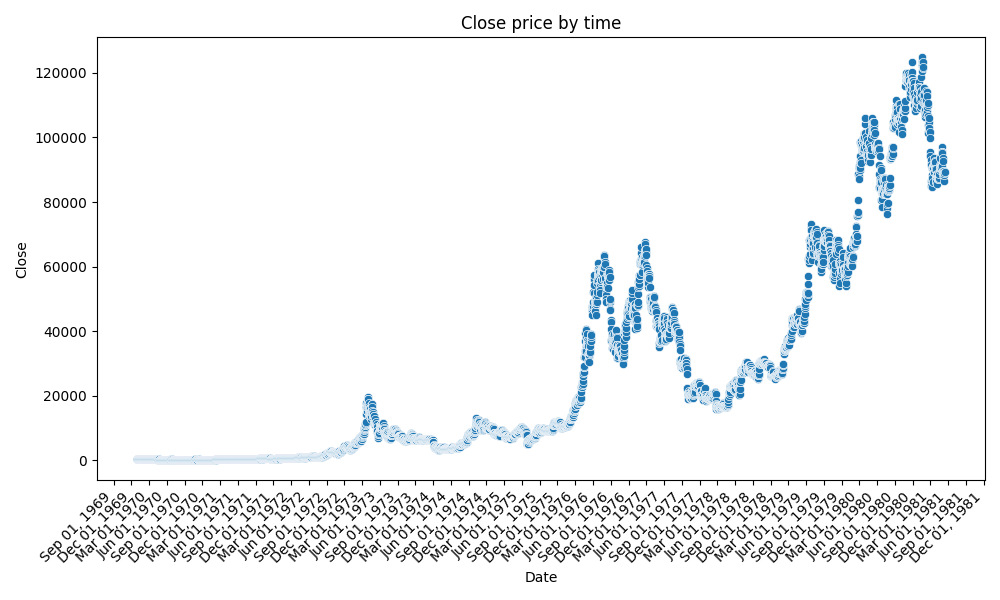
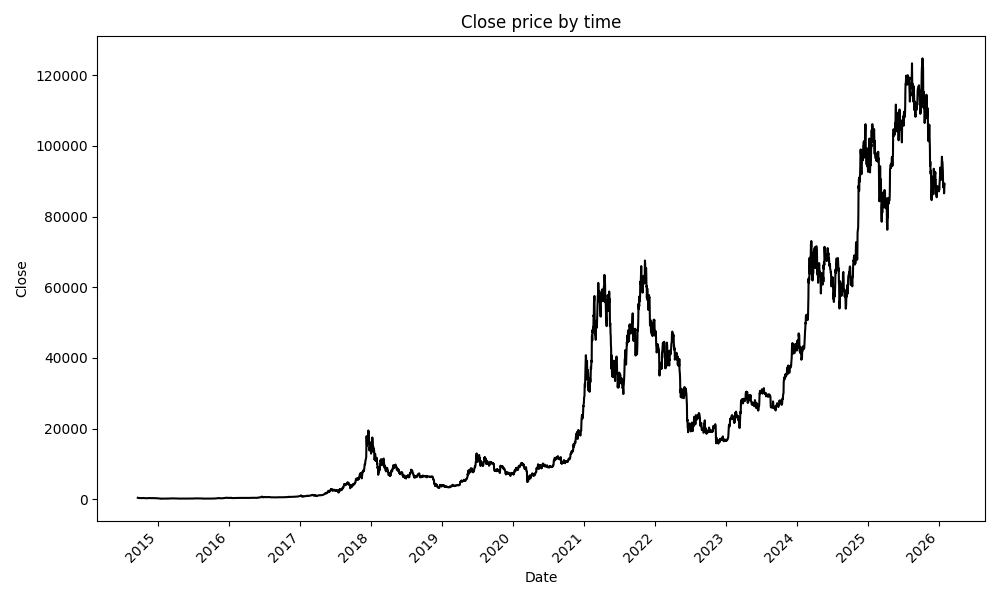
log and diff transforms

diff --git a/src/data_loader.py b/src/data_loader.py
@@ -1,12 +1,13 @@
 import pandas as pd
 from sklearn.pipeline import Pipeline
 from sklearn.preprocessing import StandardScaler
-from src.tools import DateFormatter, TimeSeriesImputer
-from sklearn.model_selection import train_test_split
+from src.tools import DateFormatter, TimeSeriesImputer, LogTransformer, DiffTransformer
 from typing import Tuple, cast
+import numpy as np
+from sklearn.model_selection import train_test_split
 
 
-def prepare_data(path: str, use_scaler: bool = True) -> Tuple[pd.DataFrame, pd.DataFrame]:
+def prepare_data(df: pd.DataFrame) -> Tuple[pd.DataFrame, pd.DataFrame]:
     """
     Preprocess stock data for time series regression.
     Format date columns, impute missing daily values, and optionally apply standard scaling.
@@ -14,15 +15,11 @@ def prepare_data(path: str, use_scaler: bool = True) -> Tuple[pd.DataFrame, pd.D
     
     Args:
         path: Path to the input CSV file
-        use_scaler: Wheather to apply StandardScaler in the pipeline.
 
     Returns:
         A tuple containing the cleaned training and test DataFrames.
     """
 
-    df = pd.read_csv(path)
-
-    # Split data without shuffling for chronological order of time series
     train, test = train_test_split(
         df, test_size=0.3, random_state=42, shuffle=False)
 
@@ -30,12 +27,34 @@ def prepare_data(path: str, use_scaler: bool = True) -> Tuple[pd.DataFrame, pd.D
     pipeline = Pipeline([
         ('date_conv', DateFormatter(column_name='Date')),
         ('imputer', TimeSeriesImputer(freq='D')),
-        ('scaler', StandardScaler() if use_scaler else None)
     ])
-
-    # pipeline.set_output(transform='pandas')
 
     train_cleaned = pipeline.fit_transform(train)
     test_cleaned = pipeline.transform(test)
 
     return cast(pd.DataFrame, train_cleaned), cast(pd.DataFrame, test_cleaned)
+
+
+def transform_data(train: pd.DataFrame, test: pd.DataFrame):
+    pipeline = Pipeline([ 
+        ('log', LogTransformer(column='Close')),
+        ('diff', DiffTransformer(degree=1, verbose=True))
+    ])
+    
+    train_transformed = pipeline.fit_transform(train)
+    test_transformed = pipeline.transform(test)
+
+    return cast(pd.DataFrame, train_transformed), cast (pd.DataFrame, test_transformed)
+
+
+def inverse_transform_predictions(preds_log_diff: pd.Series, original_prices: pd.Series, last_train_price: float) -> pd.Series:
+    """
+    Converts forecasts from log-diff format back to dollars (USD)
+    """
+    prev_prices = original_prices.shift(1)
+    prev_prices.iloc[0] = last_train_price
+    
+    # log_price_pred = log(price_prev) + log_diff_pred
+    log_preds = np.log(prev_prices) + preds_log_diff
+    
+    return np.exp(log_preds)

diff --git a/compare_models.py b/compare_models.py
@@ -1,30 +1,35 @@
-from src.data_loader import prepare_data
+from src.data_loader import prepare_data, transform_data, inverse_transform_predictions
 from src.wrapper import RegressionWrapper
-from sklearn.ensemble import RandomForestClassifier, RandomForestRegressor
-from sklearn.linear_model import LogisticRegression
-from sklearn.svm import SVC
+from sklearn.ensemble import RandomForestRegressor
 import pandas as pd
 from src.trainers.NaiveBaseline import NaiveBaseline
+from plots import plot_prediction, plot_close_price_by_time
 
 
 if __name__ == '__main__':
-    # 1. Load
-    train, test = prepare_data('data/Bitcoin_history_data.csv', use_scaler=False)
+
+    df = pd.read_csv('data/Bitcoin_history_data.csv')
+
+    train, test = prepare_data(df)
+
+    plot_close_price_by_time(pd.concat([train, test]))
+
+    train_transformed, test_transformed = transform_data(train, test)
 
     # 2. Split
-    X_train = train[['Close']]  # DataFrame
-    y_train = train['Close']    # Series
+    X_train = train_transformed[['Close']]  # DataFrame
+    y_train = train_transformed['Close']    # Series
 
-    X_test = test[['Close']]
-    y_test = test['Close']
+    X_test = test_transformed[['Close']]
+    y_test = test_transformed['Close']
 
     # 3. Models initialization
     baseline_model = NaiveBaseline()
-    other_model = RandomForestRegressor()
+    rf_regressor = RandomForestRegressor()
 
     models = [
         RegressionWrapper(baseline_model, "Baseline (Naive)"),
-        RegressionWrapper(other_model, "Random Forest Regressor"),
+        RegressionWrapper(rf_regressor, "Random Forest Regressor"),
     ]
 
     results = []
@@ -32,7 +37,12 @@ if __name__ == '__main__':
     # 4. Running models
     for m in models:
         m.train(X_train=X_train, y_train=y_train) # fitting
-        res = m.evaluate(X_test, y_test)
+        raw_preds = m.predict(X_test)
+
+        preds = inverse_transform_predictions(raw_preds, test['Close'], last_train_price=train['Close'][-1])
+
+        plot_prediction(test, preds, m.name)
+        res = m.evaluate(preds, y_test)
         results.append(res)
 
 

diff --git a/src/tools.py b/src/tools.py
@@ -1,5 +1,7 @@
 from sklearn.base import BaseEstimator, TransformerMixin
 import pandas as pd
+import numpy as np
+from statsmodels.tsa.stattools import adfuller
 
 class DateFormatter(BaseEstimator, TransformerMixin):
     def __init__(self, column_name):
@@ -29,3 +31,52 @@ class TimeSeriesImputer(BaseEstimator, TransformerMixin):
         X = X.resample(self.freq).asfreq() # add lacking dates
         X = X.ffill()
         return X
+    
+
+class LogTransformer(BaseEstimator, TransformerMixin):
+    """Applies log transformation to the specified column."""
+    def __init__(self, column: str = 'Close'):
+        self.column = column
+
+    def fit(self, X, y=None):
+        self.is_fitted_ = True
+        return self
+
+    def transform(self, X: pd.DataFrame) -> pd.DataFrame:
+        X_copy = X.copy()
+        X_copy[self.column] = np.log(X_copy[self.column])
+        return X_copy
+
+    def set_output(self, transform=None):
+        return self
+    
+
+class DiffTransformer(BaseEstimator, TransformerMixin):
+    """Performs differentiation and optionally checks stationarity."""
+    def __init__(self, column: str = 'Close', degree: int = 1, verbose: bool = False):
+        self.column = column
+        self.degree = degree
+        self.verbose = verbose
+
+    def fit(self, X, y=None):
+        self.is_fitted_ = True
+        return self
+
+    def _check_stationarity(self, series: pd.Series):
+        res = adfuller(series.dropna())
+        p_val = res[1]
+        status = "STATIONARY" if p_val <= 0.05 else "NON-STATIONARY"
+        print(f"[ADF Test] Degree {self.degree} | p-value: {p_val:.4f} -> {status}")
+
+    def transform(self, X: pd.DataFrame) -> pd.DataFrame:
+        X_copy = X.copy()
+        for _ in range(self.degree):
+            X_copy[self.column] = X_copy[self.column].diff()
+        
+        if self.verbose:
+            self._check_stationarity(X_copy[self.column])
+            
+        return X_copy.fillna(0)
+
+    def set_output(self, transform=None):
+        return self

diff --git a/plots.py b/plots.py
@@ -1,0 +1,33 @@
+import matplotlib.pyplot as plt
+import seaborn as sns
+import matplotlib.dates as mdates
+import pandas as pd
+
+def plot_close_price_by_time(df):
+    plt.figure(figsize=(10, 6))
+    ax = sns.lineplot(data=df, x='Date', y='Close', color='black')
+    ax.xaxis.set_major_locator(mdates.YearLocator(base=1))
+    ax.xaxis.set_major_formatter(mdates.DateFormatter('%Y'))
+    plt.title("Close price by time")
+    plt.xticks(rotation=45, ha='right')
+    plt.tight_layout() # Ensures labels aren't cut off
+    plt.savefig('plots/close_price.png')
+    plt.show()
+
+
+def plot_prediction(test: pd.DataFrame, y_pred: pd.Series, model_name: str):
+    plt.figure(figsize=(10, 6))
+
+    ax = sns.lineplot(x=test.index, y=test['Close'], color='royalblue', alpha=1, label = 'Actual')
+    sns.lineplot(x=test.index, y=y_pred, color='darkorange', alpha=1, linewidth=0.3, label='Predicted', linestyle='--')
+
+    ax.xaxis.set_major_locator(mdates.MonthLocator(interval=3))
+    ax.xaxis.set_major_formatter(mdates.DateFormatter('%m %Y'))
+
+    plt.title(f"Prediction price by time - model: {model_name}")
+    plt.xticks(rotation=45, ha='right')
+    plt.tight_layout() # Ensures labels aren't cut off
+    plt.legend()
+
+    plt.savefig(f'plots/prediction_{model_name}.png')
+    plt.show()

diff --git a/src/wrapper.py b/src/wrapper.py
@@ -17,11 +17,12 @@ class RegressionWrapper:
         print(f"Training of model: {self.name}...")
         self.model.fit(X_train, y_train)
 
-    def evaluate(self, X_test: pd.DataFrame, y_test: pd.Series) -> dict:
+    def predict(self, X_test: pd.DataFrame) -> pd.Series:
+        return self.model.predict(X_test)
+        
+    def evaluate(self, y_test: pd.Series, predictions: pd.Series) -> dict:
         """Calculates MAE and MAPE errors on the test set and saves them in the self.metrics attribute."""
 
-        predictions = self.model.predict(X_test)
-        
         self.metrics = {
             "model_name": self.name,
             "mae": round(mean_absolute_error(y_test, predictions), 4),

diff --git a/src/trainers/NaiveBaseline.py b/src/trainers/NaiveBaseline.py
@@ -12,7 +12,7 @@ class NaiveBaseline:
     def fit(self, X: pd.DataFrame, y: pd.Series):
         self.last_train_value = y.iloc[-1]
 
-    def predict(self, X: pd.DataFrame) -> pd.Series :
+    def predict(self, X: pd.DataFrame) -> pd.Series:
         if isinstance(X, pd.Series):
             X = X.to_frame()
             
@@ -21,7 +21,7 @@ class NaiveBaseline:
         if self.last_train_value is not None:
             preds.iloc[0] = self.last_train_value
 
-        # preds.iloc[0] = self.last_train_values
-        return preds
+        # Convert DataFrame to Series before returning
+        return preds.iloc[:, 0]
     
     
